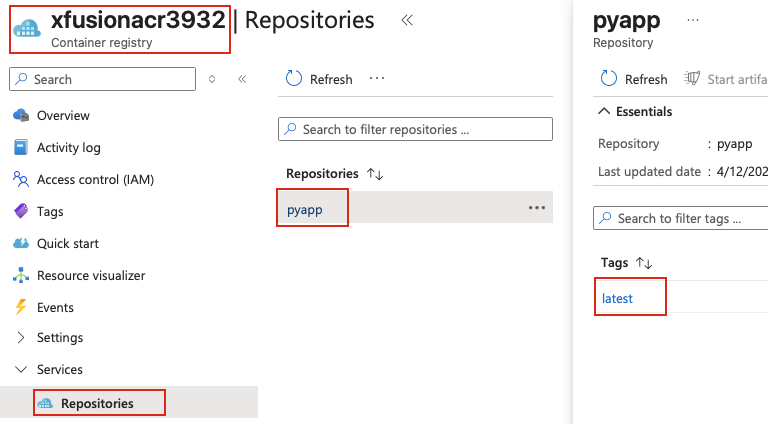
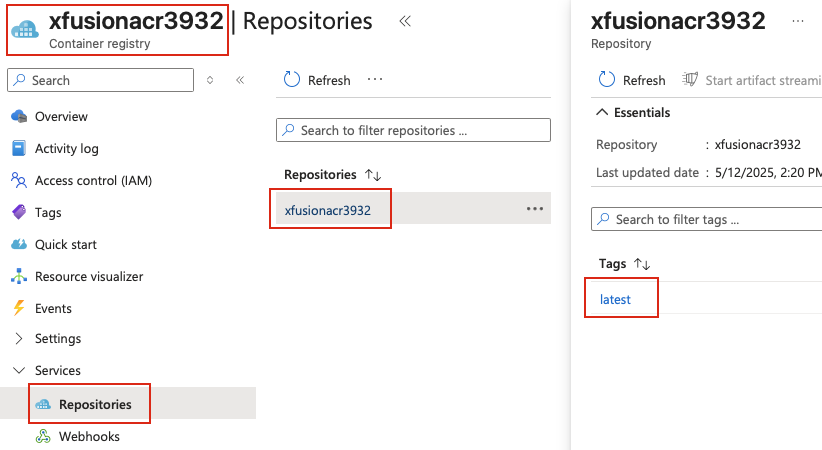
update day 29 task

diff --git a/100_Days_of_Cloud-Azure/Day29.md b/100_Days_of_Cloud-Azure/Day29.md
@@ -4,7 +4,7 @@ The Nautilus DevOps team has been tasked with setting up a containerized applica
 1. Create an ACR repository named `xfusionacr3932` under `East US`.
 2. Pricing plan must be `Basic`.
 3. Dockerfile already exists under `/root/pyapp` directory on `azure-client` host.
-4. Build a Docker image using this Dockerfile and push the same to the newly created ACR repo. The image tag must be `latest` i.e `xfusionacr3932.azurecr.io/pyapp:latest`.
+4. Build a Docker image using this Dockerfile and push the same to the newly created ACR repo. The image tag must be `latest` i.e `xfusionacr3932:latest`.
 
 ---
 
@@ -73,7 +73,7 @@ ls -la
 Build the Docker image with the ACR repository URL and tag:
 ```bash
 # Build the Docker image
-docker build -t xfusionacr3932.azurecr.io/pyapp:latest .
+docker build -t xfusionacr3932.azurecr.io/xfusionacr3932:latest .
 ```
 
 ### **Step 10: Verify Image Built Successfully**
@@ -85,14 +85,14 @@ docker images | grep xfusionacr3932
 ### **Step 11: Push Image to ACR**
 ```bash
 # Push the image to ACR
-docker push xfusionacr3932.azurecr.io/pyapp:latest
+docker push xfusionacr3932.azurecr.io/xfusionacr3932:latest
 ```
 
 ### **Step 12: Check ACR Repositories**
-1. Go to **Container registries** → **xfusionacr3932**
-2. In the left menu, click **Services** → **Repositories**
-3. You should see **pyapp** listed
-4. Click on **pyapp**
-5. Verify the **latest** tag is present
+- Go to **Container registries** → **xfusionacr3932**
+- In the left menu, click **Services** → **Repositories**
+- You should see **pyapp** listed
+- Click on **pyapp**
+- Verify the **latest** tag is present
 
 ![verify repo](assets/day29_04.png)
